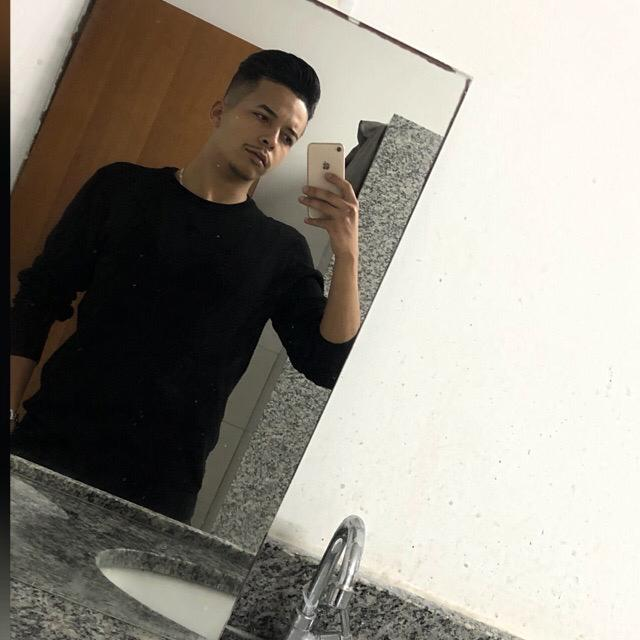
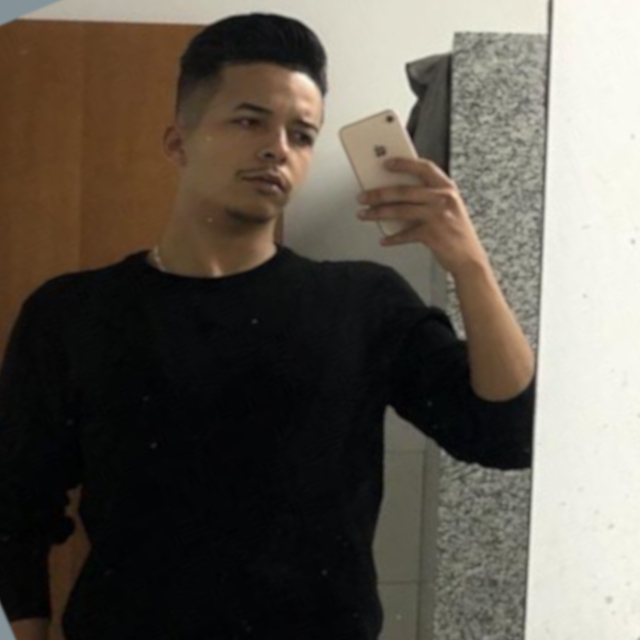
alterei foto perfil

diff --git a/index.html b/index.html
@@ -19,7 +19,7 @@
         <section id="background">
             <section id="card">
                 <div id="imagem">
-                    <img src="imagens/perfil4.jpeg" alt="foto do perfil">
+                    <img src="imagens/perfil3.jpeg" alt="foto do perfil">
                 </div>
                 <div id="redes_sociais">
                     <h1>Michael Gomes</h1>
